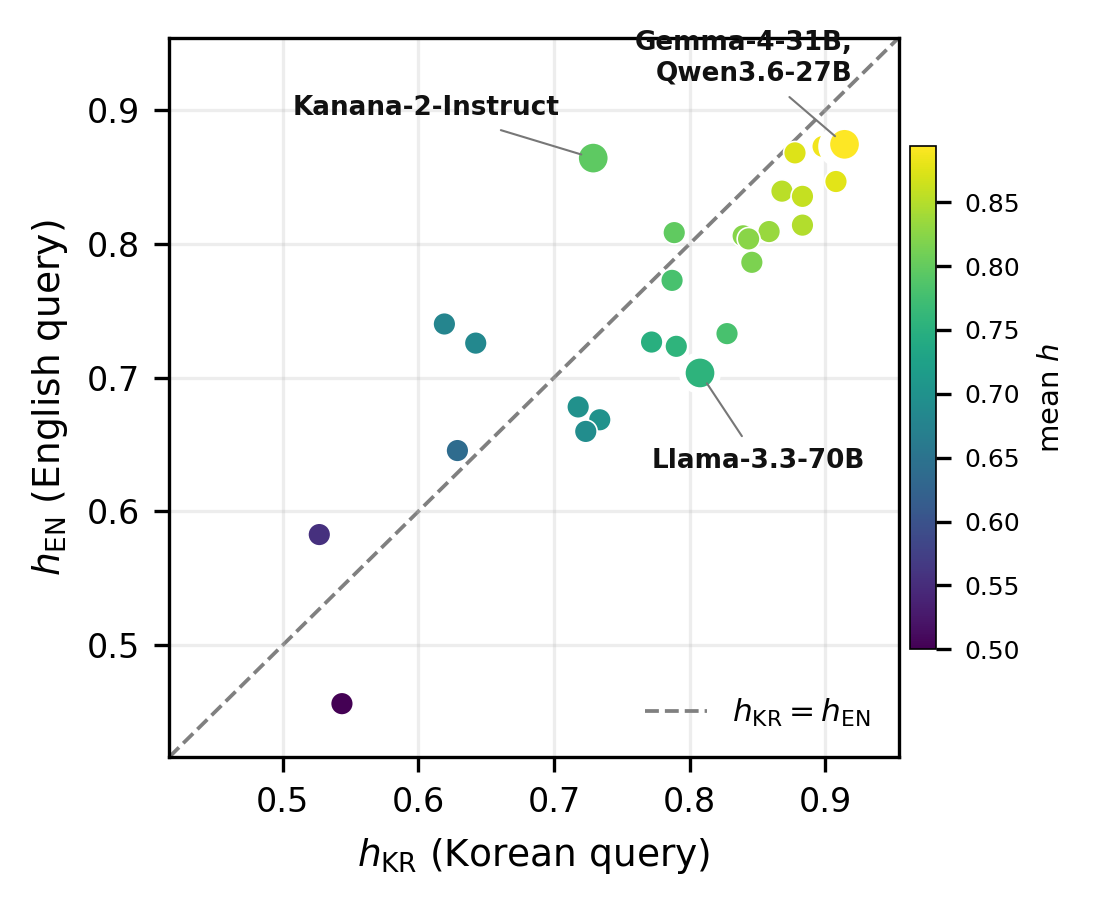
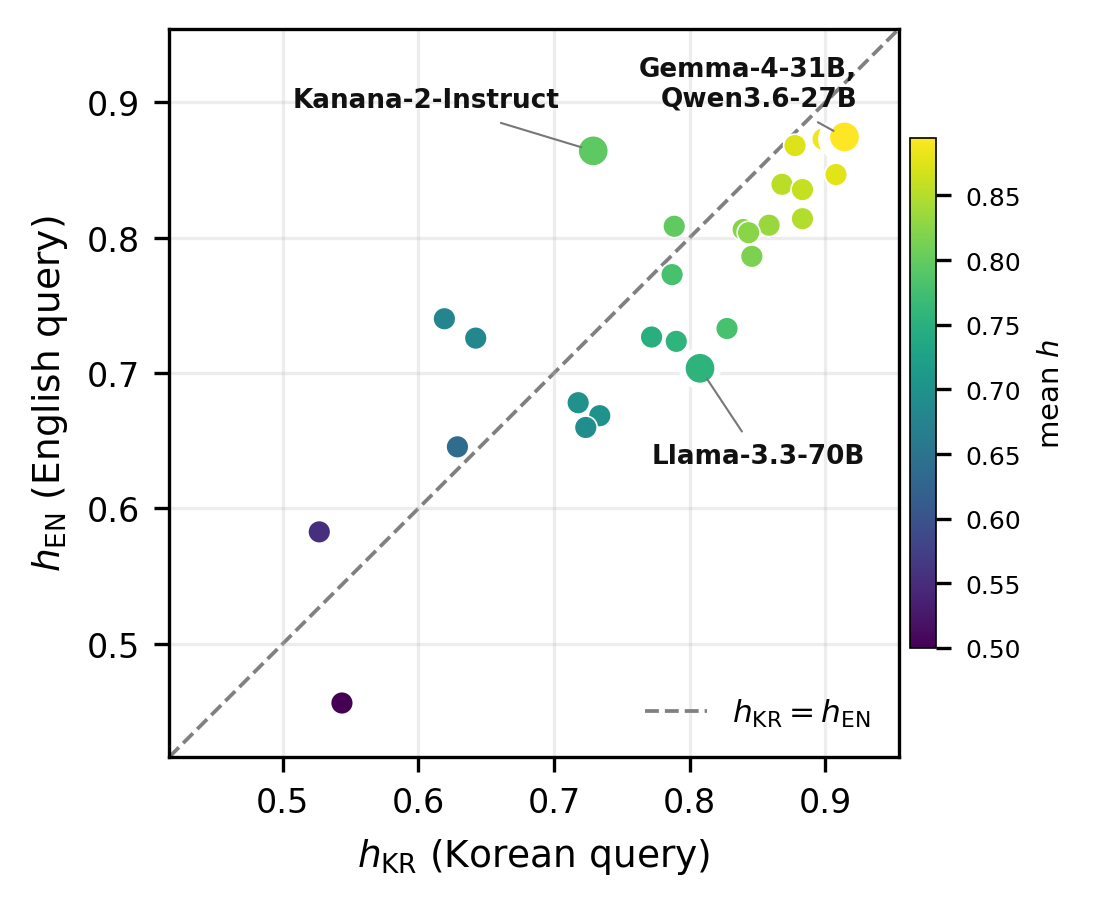
fig(rq4): keep Gemma/Qwen3.6 label inside the axes box
top line was overflowing the upper spine; lower the combined label just
above the cluster (right-aligned) so both lines stay within the box.

diff --git a/_experiments/scripts/generate_fig4_scatter_v2.py b/_experiments/scripts/generate_fig4_scatter_v2.py
@@ -49,7 +49,7 @@ EXCLUDE = {
 # 강조 모델 2종: (1) 두 언어 모두 강함(top performers), (2) 의미 있는 언어 격차
 # 두 최상위(Gemma-4-31B,Qwen3.6-27B)는 거의 같은 위치 → 한 라벨로 합치고 리더선으로 연결
 LABELS = {
-    "google_gemma-4-31B-it":               ("Gemma-4-31B,\nQwen3.6-27B", "right", "bottom", 2, 14),
+    "google_gemma-4-31B-it":               ("Gemma-4-31B,\nQwen3.6-27B", "right", "bottom", 3, 6),
     "Qwen_Qwen3_6-27B":                    ("", "center", "top", 0, 0),          # 마커만(라벨은 위에 합침)
     "meta-llama_Llama-3_3-70B-Instruct":   ("Llama-3.3-70B", "center", "top", 14, -18),
     "kakaocorp/kanana-2-30b-a3b-instruct": ("Kanana-2-Instruct", "right", "bottom", -8, 9),
